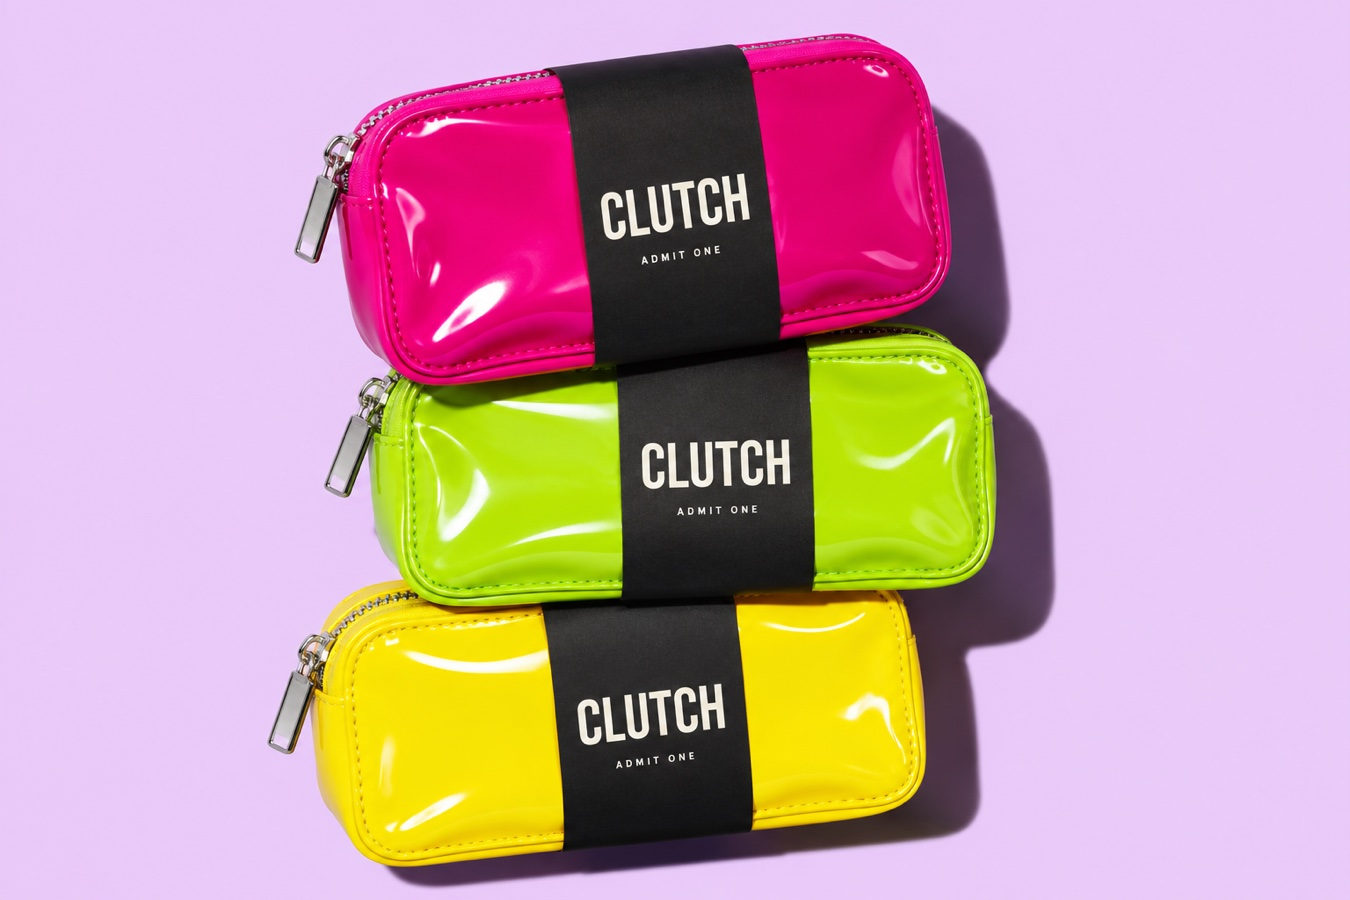
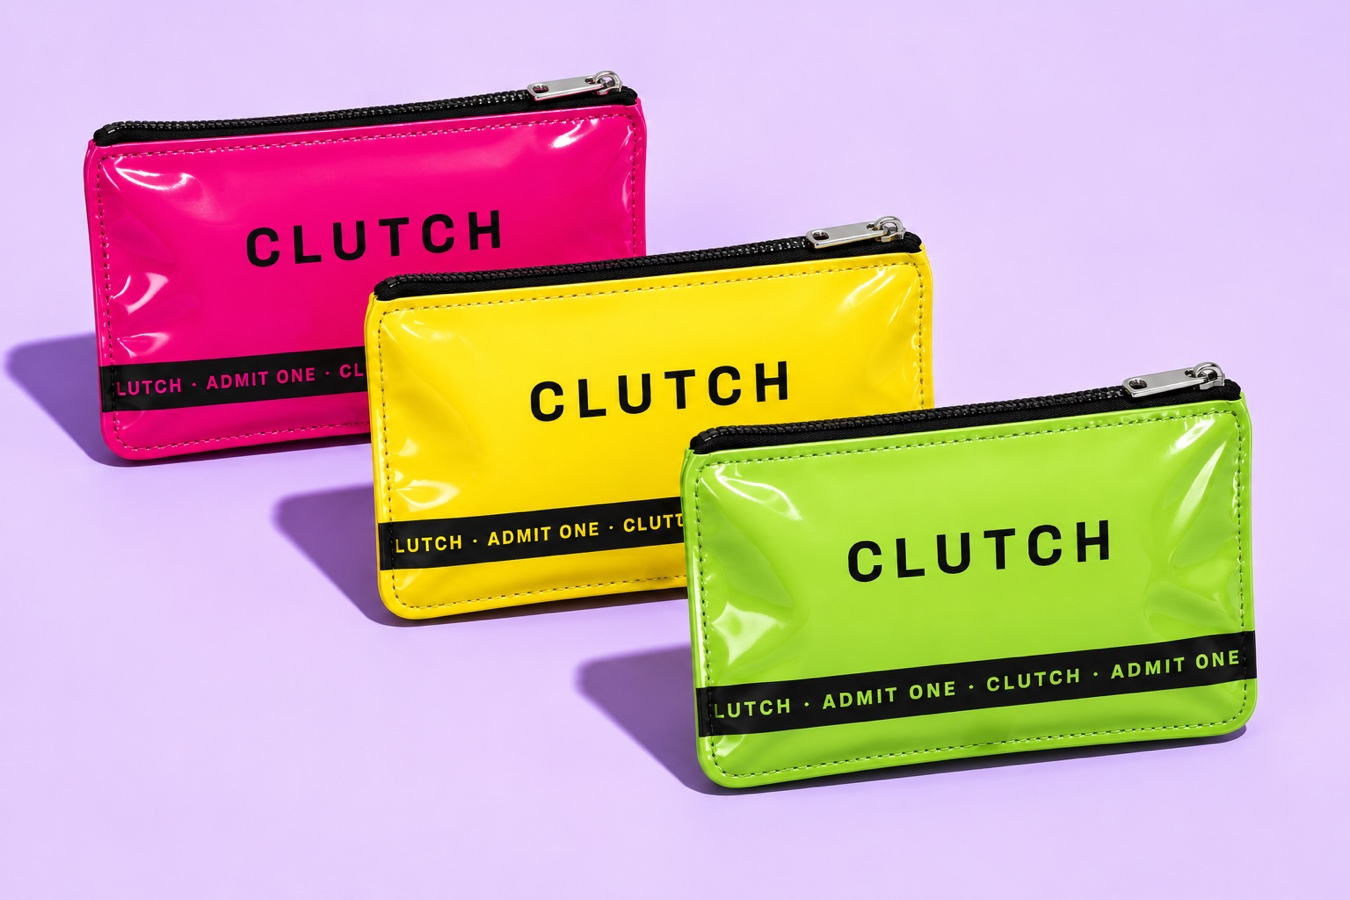
update images

diff --git a/src/App.css b/src/App.css
@@ -101,12 +101,11 @@ h1 em { color: var(--magenta); }
 .hero-figure, .color-figure { position: relative; border: 1px solid var(--ink); background: #e2d3ff; }
 
 .hero-figure img { width: 100%; height: auto; aspect-ratio: 1.12; object-fit: cover; }
-.hero-spark { position: absolute; top: 5%; left: 5%; color: var(--ink); font-size: clamp(2rem, 4.5vw, 5rem); line-height: 1; }
 
 .size-sticker {
   position: absolute;
   right: 5%;
-  bottom: 8%;
+  bottom: 5%;
   width: clamp(66px, 8vw, 114px);
   aspect-ratio: 1;
   display: grid;
@@ -167,14 +166,14 @@ h2 { font-size: clamp(4rem, 8vw, 8rem); }
 
 .colors { background: #eee2ff; border-block: 1px solid var(--ink); }
 .color-layout { display: grid; grid-template-columns: 1.15fr .8fr; align-items: center; gap: clamp(24px, 5vw, 84px); padding-block: clamp(28px, 5vw, 72px); }
-.color-figure img { width: 100%; height: auto; aspect-ratio: 1.52; object-fit: cover; }
+.color-figure img { width: 100%; height: auto; }
 .color-copy h2 { font-size: clamp(3.4rem, 7vw, 7rem); }
 .swatches { display: flex; flex-wrap: wrap; gap: 13px 18px; list-style: none; padding: 0; margin: 24px 0 0; }
 .swatches li { display: flex; align-items: center; gap: 7px; font-weight: 700; font-size: .8rem; }
 .swatch { width: 17px; height: 17px; border: 1px solid var(--ink); border-radius: 50%; }
-.fuchsia { background: #f00079; }
-.lemon { background: #ffe448; }
-.lime { background: #c7f23b; }
+.fuchsia { background: #d9327e; }
+.lemon { background: #f2d12e; }
+.lime { background: #8fd14f; }
 
 .pilot { padding-top: clamp(55px, 8vw, 114px); }
 .pilot-ticket { display: grid; grid-template-columns: 1fr minmax(170px, 26%); border: 1px solid var(--ink); background: var(--pink); }

diff --git a/src/App.jsx b/src/App.jsx
@@ -1,4 +1,3 @@
-import pouch from './assets/clutch-pouch.jpg'
 import colorPouches from './assets/clutch-colors.jpg'
 import './App.css'
 import ClutchMockup from './components/ClutchMockup'
@@ -50,8 +49,7 @@ function App() {
             </div>
           </div>
           <figure className="hero-figure">
-            <img src={pouch} alt="Fuchsia vinyl zipper pouch with a black CLUTCH Admit One band" width="1254" height="1254" fetchPriority="high" />
-            <span className="hero-spark" aria-hidden="true">✦</span>
+            <img src="/clutch-pouch-preview.jpg" alt="Glossy fuchsia CLUTCH pouch with a black top zipper and horizontal Admit One band" width="1200" height="1200" fetchPriority="high" />
             <div className="size-sticker"><strong>4.5 × 3</strong><span>INCHES</span></div>
             <figcaption>Product concept · Fuchsia</figcaption>
           </figure>
@@ -96,7 +94,7 @@ function App() {
         <section className="colors" aria-labelledby="colors-title">
           <div className="shell color-layout">
             <figure className="color-figure">
-              <img src={colorPouches} alt="Fuchsia, lemon and lime concept pouches stacked together" width="1350" height="900" loading="lazy" />
+              <img src={colorPouches} alt="Fuchsia, lemon and lime CLUTCH pouches arranged diagonally on a lavender backdrop" width="1350" height="900" loading="lazy" />
               <figcaption>Product concepts</figcaption>
             </figure>
             <div className="color-copy">

diff --git a/index.html b/index.html
@@ -8,11 +8,11 @@
     <meta property="og:site_name" content="CLUTCH" />
     <meta property="og:title" content="The pocket-sized going-out kit" />
     <meta property="og:description" content="The stuff you end up looking for at 1 a.m., packed in one pocket-sized pouch." />
-    <meta property="og:image" content="https://clutch-site.jl-ee2.workers.dev/clutch-preview.jpg" />
+    <meta property="og:image" content="https://clutch-site.jl-ee2.workers.dev/clutch-pouch-preview.jpg" />
     <meta property="og:image:type" content="image/jpeg" />
     <meta property="og:image:width" content="1200" />
     <meta property="og:image:height" content="1200" />
-    <meta property="og:image:alt" content="Fuchsia CLUTCH zipper pouch on a lavender background" />
+    <meta property="og:image:alt" content="Glossy fuchsia CLUTCH pouch with a horizontal Admit One band on a lavender background" />
     <meta name="theme-color" content="#fcf8ef" />
     <link rel="icon" type="image/svg+xml" href="/favicon.svg" />
     <link rel="apple-touch-icon" sizes="180x180" href="/apple-touch-icon.png" />
